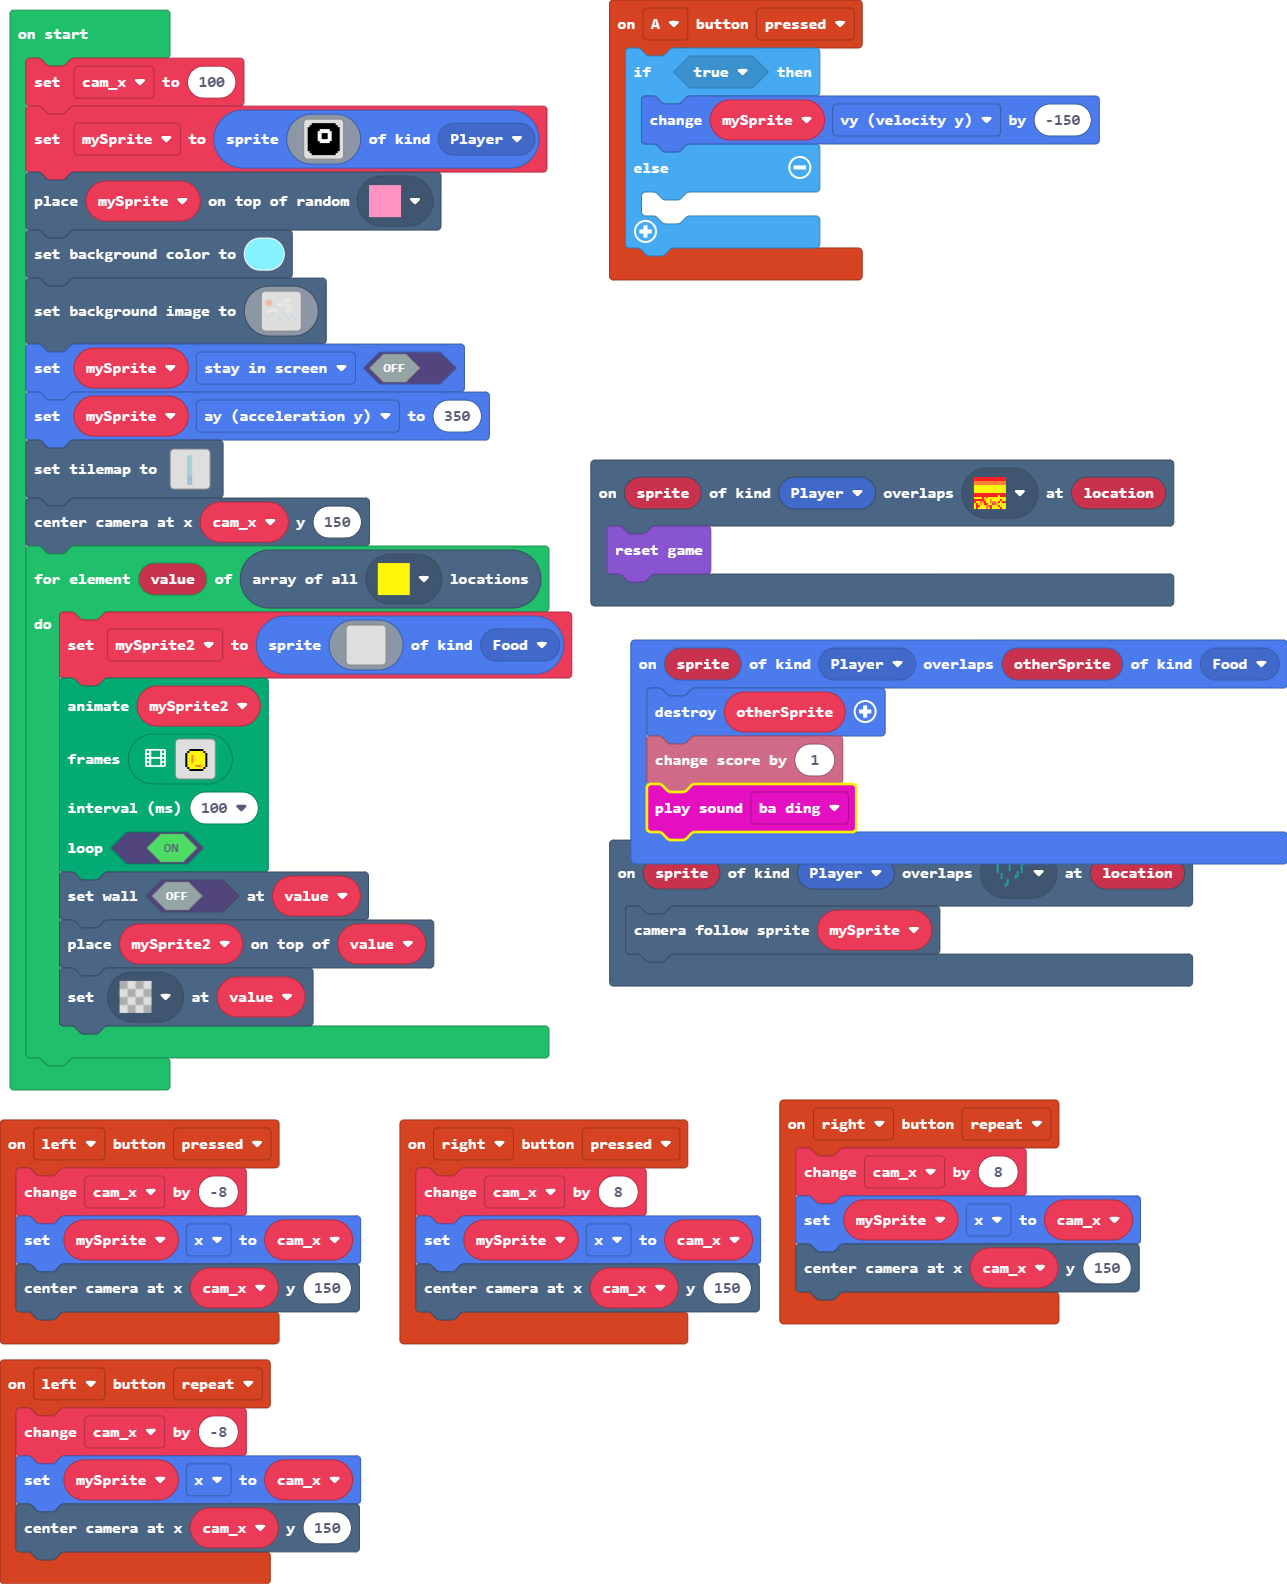
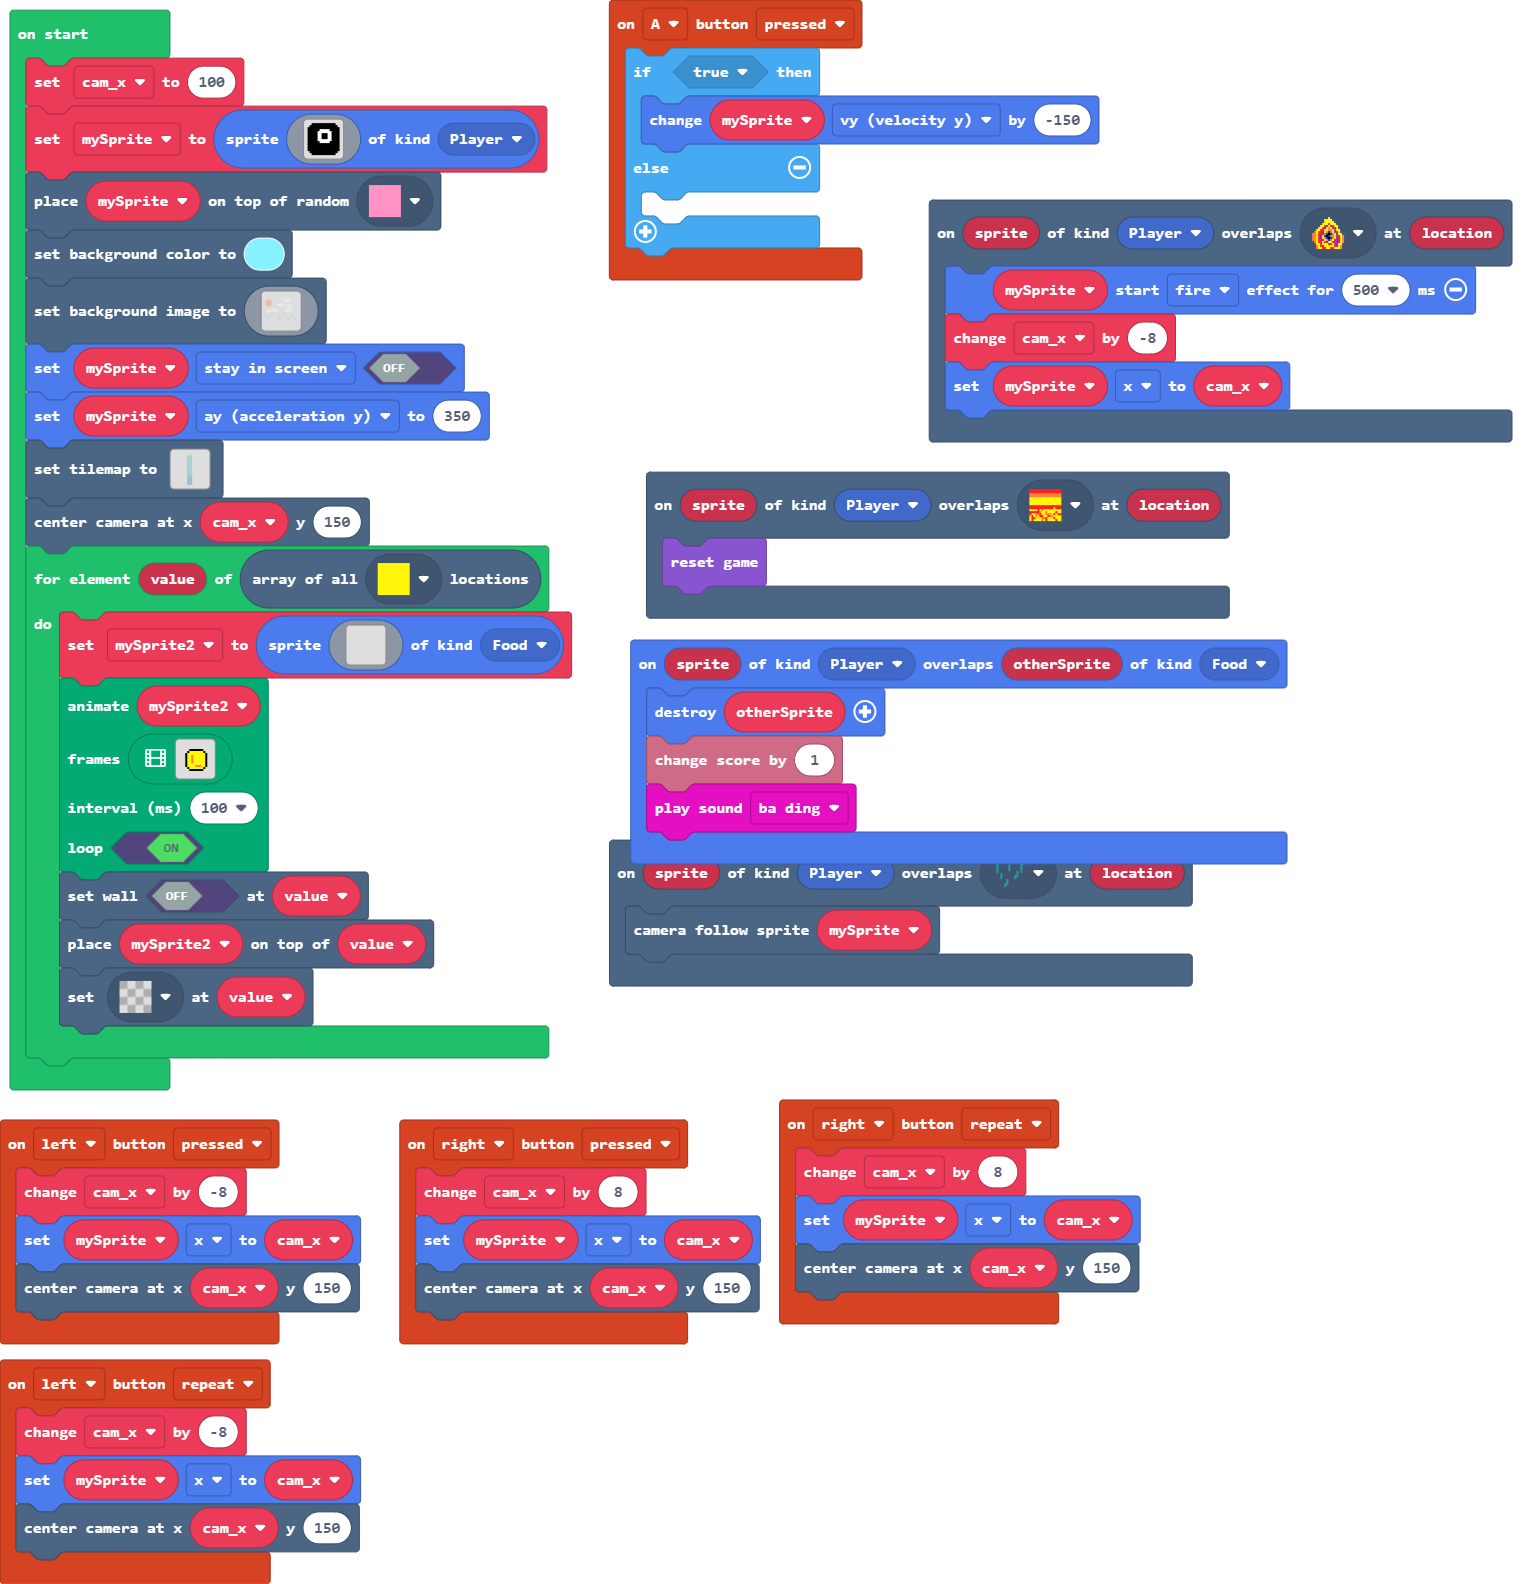
added fire effect

diff --git a/main.ts b/main.ts
@@ -8,6 +8,11 @@ controller.A.onEvent(ControllerButtonEvent.Pressed, function () {
     	
     }
 })
+scene.onOverlapTile(SpriteKind.Player, myTiles.tile8, function (sprite, location) {
+    mySprite.startEffect(effects.fire, 500)
+    cam_x += -8
+    mySprite.x = cam_x
+})
 controller.right.onEvent(ControllerButtonEvent.Repeated, function () {
     cam_x += 8
     mySprite.x = cam_x
